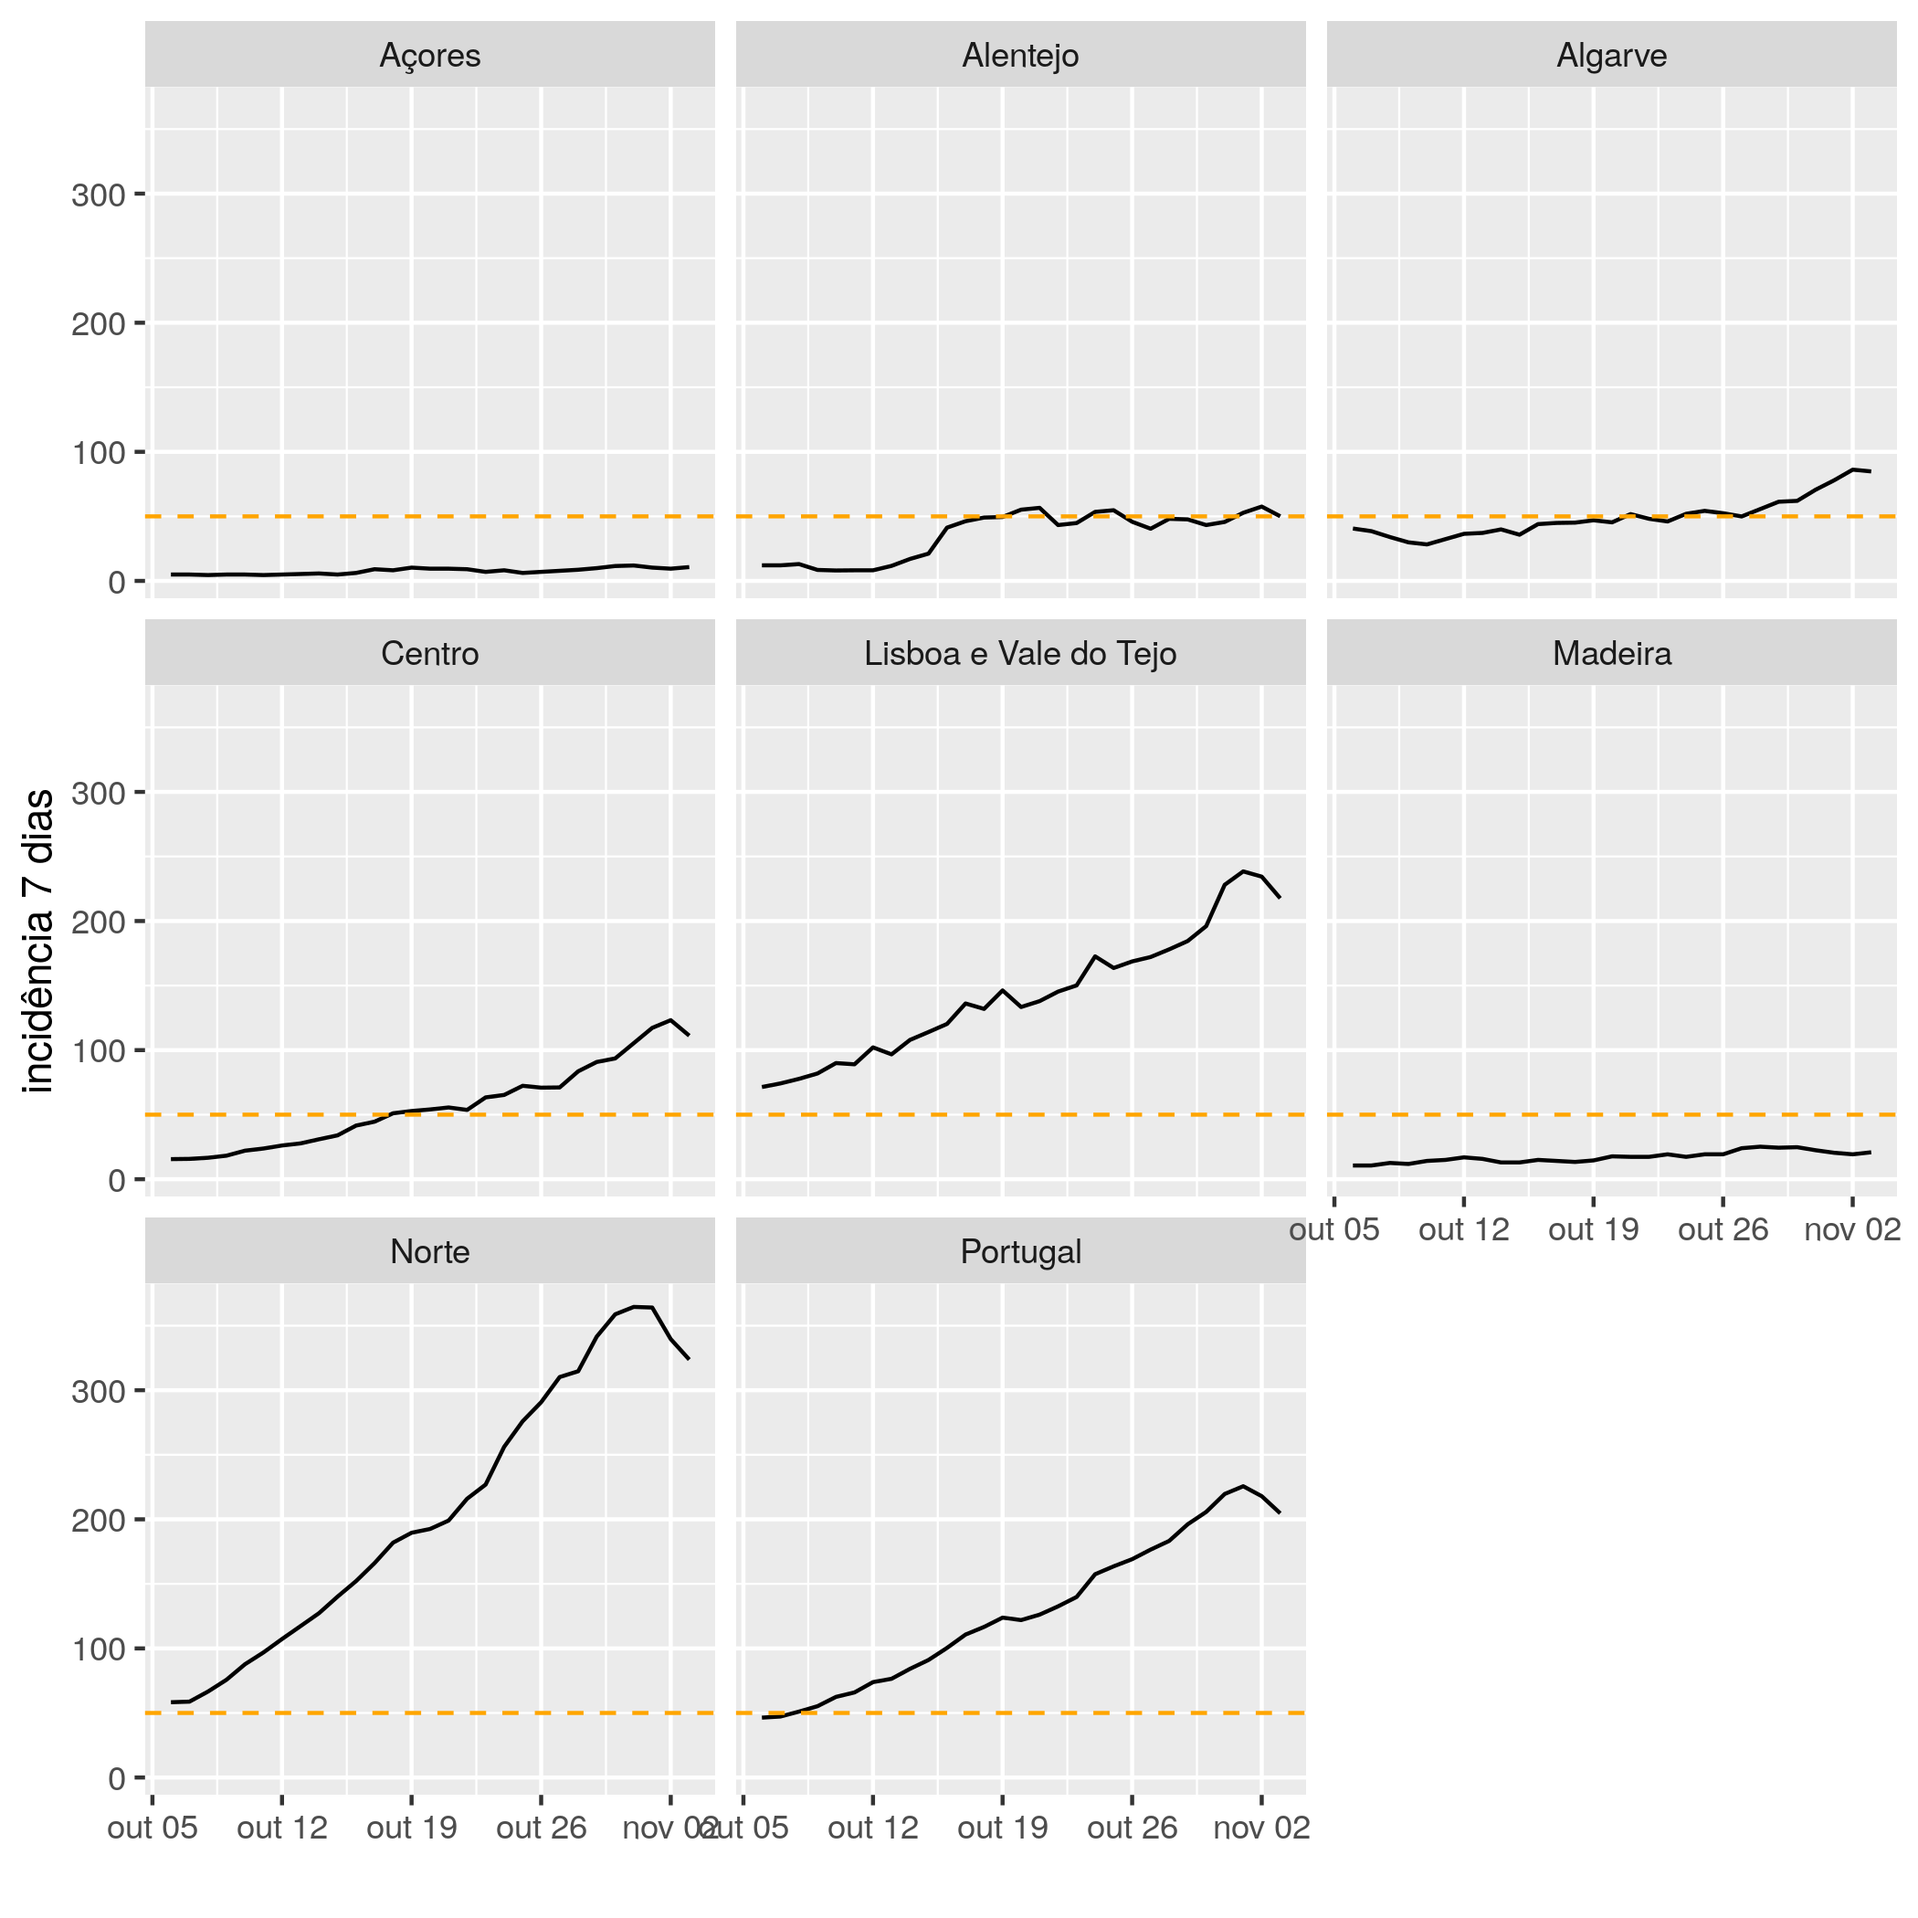
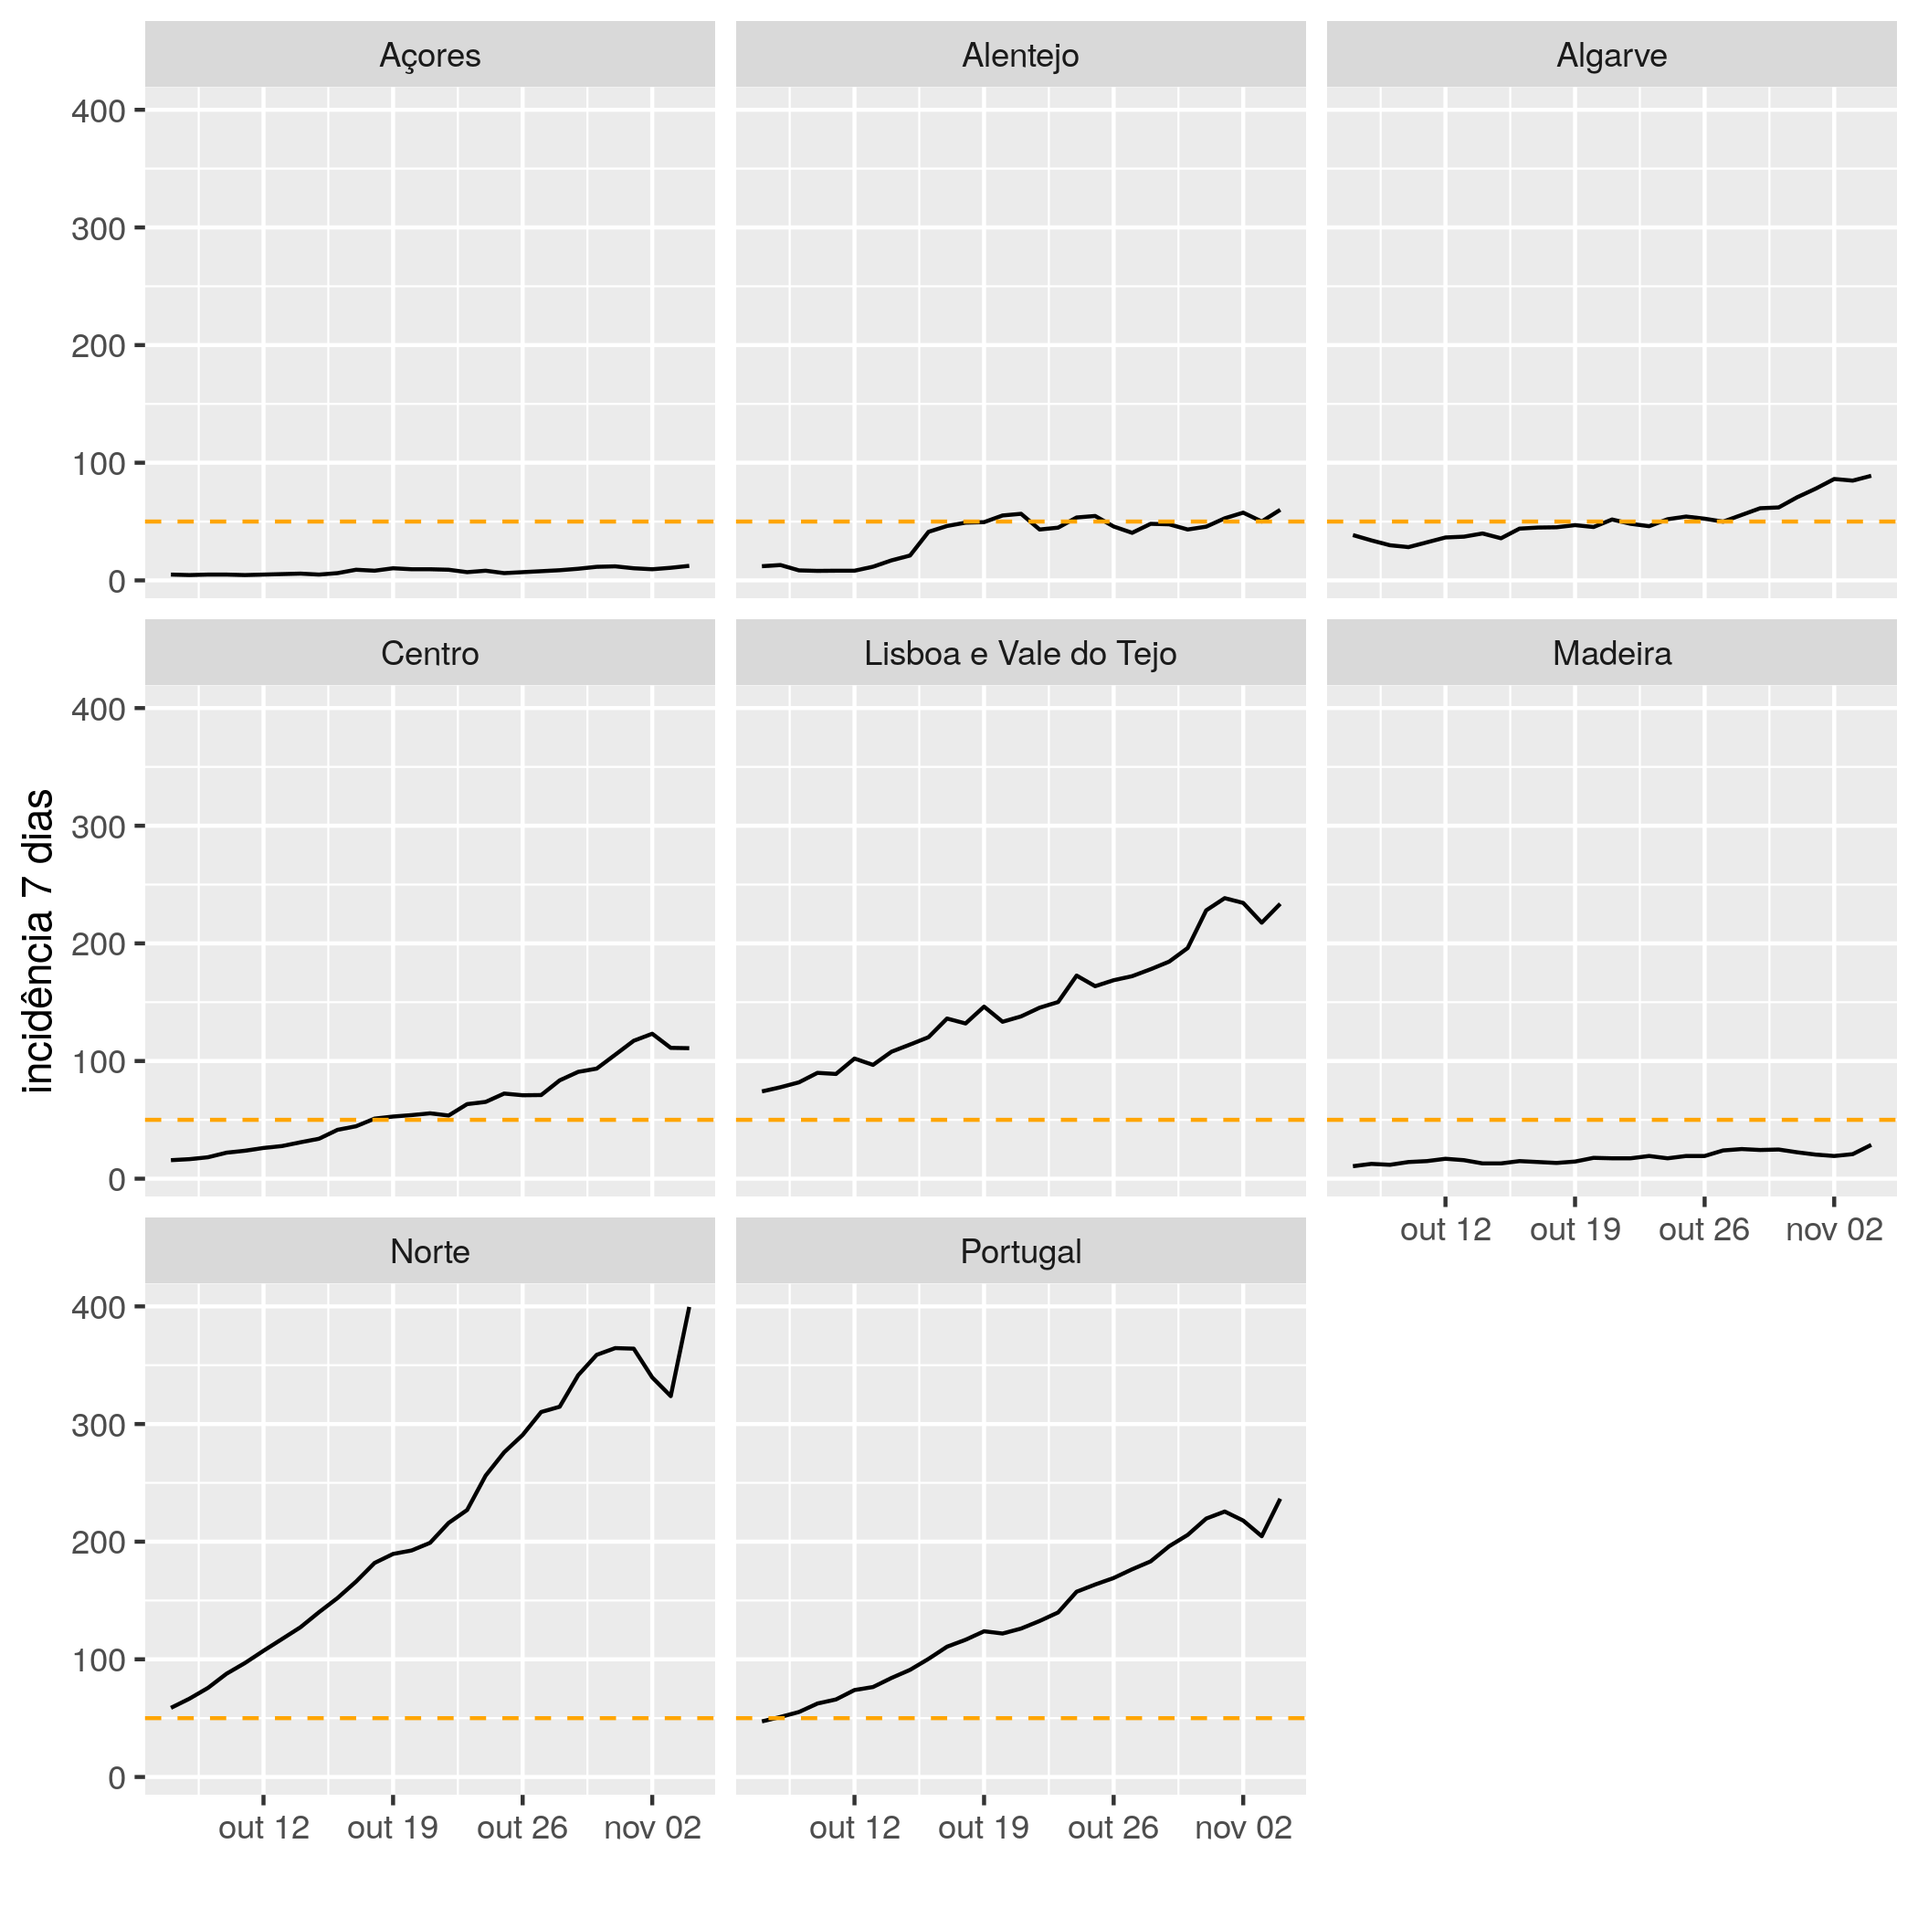
quarta

diff --git a/README.md b/README.md
@@ -1,7 +1,7 @@
 # Contexto
 A incidência por 100000 habitantes em 7 dias é o valor de referência para decretar regiões de risco pelas autoridades de saúde alemãs (valor charneira é 50, ie LVT, Norte e Centro já são regiões de risco). Gráficos atualizados diariamente. Para ajudar quem quer viajar para a Alemanha ou vir passar férias a Portugal.
 
-Dados mais recentes de 2020-11-03.
+Dados mais recentes de 2020-11-04.
 
 # Incidência por 100000 habitantes em 7 dias
 ## Últimos 30 dias
